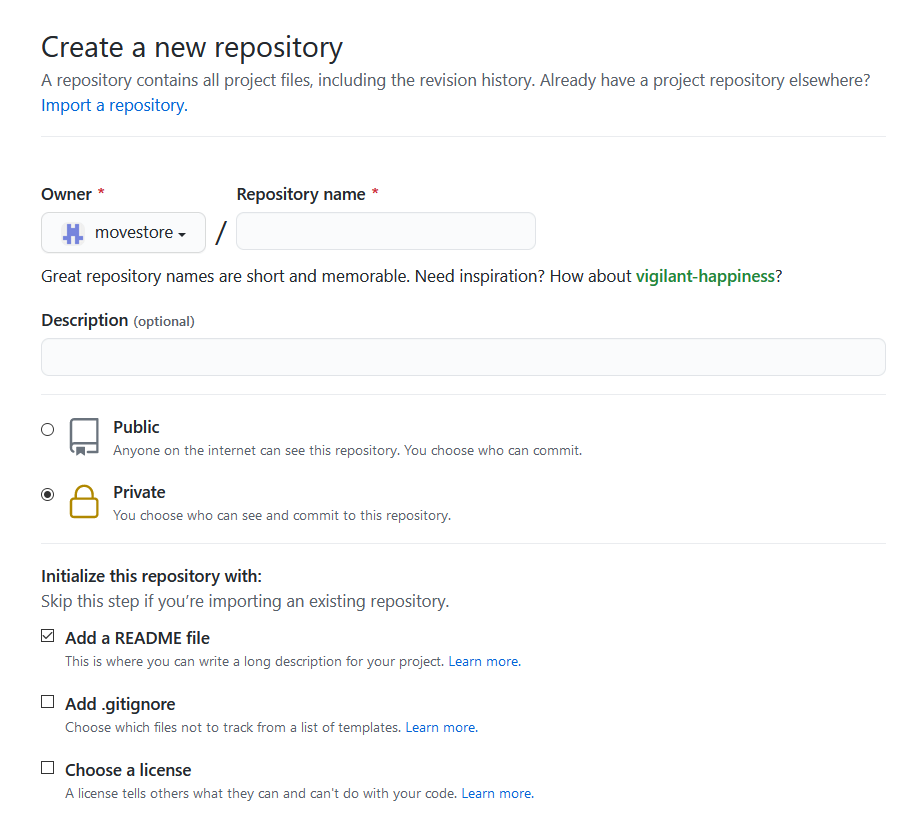
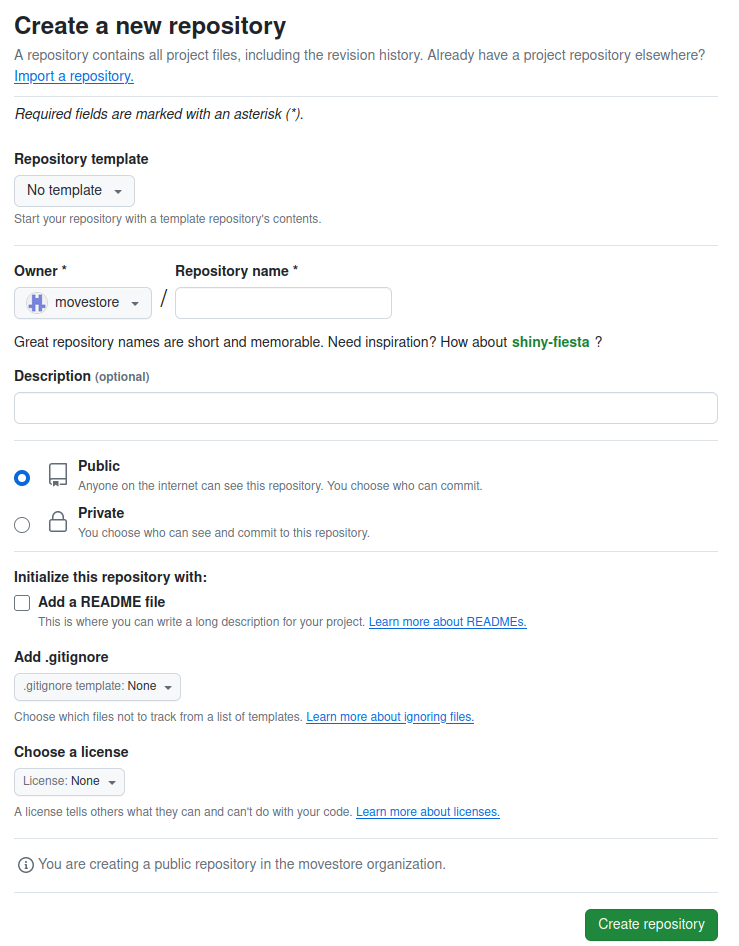
sync template R and py

diff --git a/manage_Rapp_github.md b/manage_Rapp_github.md
@@ -1,0 +1,44 @@
+# Manage your MoveApps Apps with GitHub and RStudio
+
+## Create GitHub repository
+Preferably use directly one of our templates ([see details](create_app.md)). Click on `Use this template` to copy the template to a new repository within your GitHub account. Specify its name (this can be the name of the App) and provide a short description. In order for our system to access files from your repository it has to be `public`, also for traceability and collaboration in the platform this openness is beneficial. Make sure that you activate to be notified of all activity in the repository (see Watch/Unwatch after creating the repository), so that any issues that users might report about the App will reach you.
+
+<kbd>![](files/create_repository_r_template.png ':size=600')</kbd>
+
+Alternatively, if you have downloaded the files from one of our templates locally, you'll have to create a new repository on your personal GitHub dashboard. Specify its name (this can be the name of the App) and provide a short description. In order for our system to access files from your repository it has to be `public`, also for traceability and collaboration in the platform this openness is beneficial. You can choose a license here, but this will be required of you also later in the process of submitting the App to MoveApps. Make sure that you activate to be notified of all activity in the repository (see Watch/Unwatch after creating the repository), so that any issues that users might report about the App will reach you.
+
+<kbd>![](files/Github_newRepo.png ':size=600')</kbd>
+
+## Clone your GitHub repository
+To comfortably work on your local system, develop your code and test your App locally emulating (almost) the online MoveApps system, you can clone your GitHub repository. This can be done directly in RStudio or by using GitHub Desktop.
+
+### with RStudio
+Open RStudio and Create a new Project from Git Version Control: `File > New Project > Version Control > Git`. Then enter the URL of your GitHub repository (`Code > Local > HTTPS` in GitHub) and select your local project directory name. That's it, you can now use RStudio to develop and test your code locally and push and pull updates to your project via the top right window `Git` which indicates files that have changed and can be pushed and pulled from/to your GitHub respository. Note that before such updates, it is required to commit your changes with a small description of the changes.
+
+<kbd>![](files/Rstudio_Clone.png)</kbd>
+<kbd>![](files/Rstudio_GitOverview.png)</kbd>
+
+### with GitHub Desktop
+Another way to work on your local system is by using the GitHub Desktop, which is a software programme often used for Version Control with Git and GitHub. It requires the installation of that programme. Once you have opened GitHub Desktop you can clone a GitHub repository under `File > Clone repository`, where you can select your repositories (once your account is connected) and clone them to local folders. New files will then be highlighted to be pushed and pulled whenever you open GitHub Desktop. Also here commits and descriptions thereof are required, very comfortably in a small window below the list of changed files.
+
+<kbd>![](files/GitDesktop_Clone.png)</kbd>
+<kbd>![](files/GitDesktop_Overview.png)</kbd>
+
+## Keep your repositories up to date (Sync with templates)
+To ensure that you can test your App emulating the current MoveApps environment, we have put in place a "*Template Synchronization GH action*". Once a week GitHub checks if there are updates for your App (see in [this image](create_app.md) which files are checked/ will be ignored), and makes a pull request (PR). This feature was introduced in June 2023. If you created your App before this date, you can manually add this functionality:
+!\> Only use this option if your App is written for input data of class `move2`!! 
+
+1. Ensure that the Actions permissions are correctly set. In your GitHub repository go to `Settings > Actions > General` and make sure that in the section `Workflow permissions` the options "*Read and write permissions*" is selected and "*Allow GitHub Actions to create and approve pull requests*" is ticked. `Save` your changes.
+
+<kbd>![](files/github_action_permission.png)</kbd>
+
+2. Manually add the folder `.github` from the corresponding template to your fork. ([Template R Function App](https://github.com/movestore/Template_R_Function_App ':ignore'), [Template R Shiny App](https://github.com/movestore/Template_R_Shiny_App ':ignore') or [Template R Shinydashboard App](https://github.com/movestore/Template_R_Shinydashboard_App ':ignore'))
+
+3. Once these files are added you can manually execute the GH action named *.github/workflows/template-sync.yml*.
+To do this, in your GitHub repository go to `Actions > .github/workflows/template-sync.yml > Run workflow > Run workflow`
+
+<kbd>![](files/sync_R_template.png)</kbd>
+
+4. If you are using the `Template R Function App`, after merging the generated pull request add the file `app-configuration.json` manually to the root directory of your App.
+
+

diff --git a/manage_Pyapp_github.md b/manage_Pyapp_github.md
@@ -1,0 +1,33 @@
+# Manage your MoveApps Apps with GitHub
+
+## Create GitHub repository
+Preferably use directly one of our templates ([see details](create_py_app.md)). Click on `Use this template` to copy the template to a new repository within your GitHub account. Specify its name (this can be the name of the App) and provide a short description. In order for our system to access files from your repository it has to be `public`, also for traceability and collaboration in the platform this openness is beneficial. Make sure that you activate to be notified of all activity in the repository (see Watch/Unwatch after creating the repository), so that any issues that users might report about the App will reach you.
+
+<kbd>![](files/create_repository_py_template.png ':size=600')</kbd>
+
+Alternatively, if you have downloaded the files from one of our templates locally, you'll have to create a new repository on your personal GitHub dashboard. Specify its name (this can be the name of the App) and provide a short description. In order for our system to access files from your repository it has to be `public`, also for traceability and collaboration in the platform this openness is beneficial. You can choose a license here, but this will be required of you also later in the process of submitting the App to MoveApps. Make sure that you activate to be notified of all activity in the repository (see Watch/Unwatch after creating the repository), so that any issues that users might report about the App will reach you.
+
+<kbd>![](files/Github_newRepo.png ':size=600')</kbd>
+
+## Clone your GitHub repository
+To comfortably work on your local system, develop your code and test your App locally emulating (almost) the online MoveApps system, you can clone your GitHub repository. 
+
+*(more details coming soon)*
+
+
+## Keep your repositories up to date (Sync with templates)
+To ensure that you can test your App emulating the current MoveApps environment, we have put in place a "*Template Synchronization GH action*". Once a week GitHub checks if there are updates for your App (see in [this image](create_py_app.md) which files are checked/ will be ignored), and makes a pull request (PR). This feature was introduced in October 2023. If you created your App before this date, you can manually add this functionality:
+
+1. Ensure that the Actions permissions are correctly set. In your GitHub repository go to `Settings > Actions > General` and make sure that in the section `Workflow permissions` the options "*Read and write permissions*" is selected and "*Allow GitHub Actions to create and approve pull requests*" is ticked. `Save` your changes.
+
+<kbd>![](files/github_action_permission.png)</kbd>
+
+2. Manually add the folder `.github` from the [Template Python App](https://github.com/movestore/python-sdk) to your fork.
+
+3. Once these files are added you can manually execute the GH action named *Template Synchronization*.
+To do this, in your GitHub repository go to `Actions > Template Synchronization > Run workflow > Run workflow`
+
+<kbd>![](files/sync_py_template.png)</kbd>
+
+
+

diff --git a/_sidebar.md b/_sidebar.md
@@ -14,11 +14,12 @@
       - [Hello world! An R App example](hello_world_app.md)
       - [How to create an R App](create_app.md)
       - [Programming with I/O type 'move2::move2_**'](programing_move2.md)
-      - [Manage your R Apps with GitHub and Rstudio](manage_app_github.md)
-	  - [Parallel computing in MoveApps](parallelcomp.md)
+      - [Manage your R Apps with GitHub and Rstudio](manage_Rapp_github.md)
+	    - [Parallel computing in MoveApps](parallelcomp.md)
   - Python Tutorials
       - [How to create a Python App](create_py_app.md)
-      - [Programming with I/O type MovingPandas.TrajectoryCollection](movingPandas_colnames)
+      - [Programming with I/O type MovingPandas.TrajectoryCollection](movingPandas_colnames.md)
+      - [Manage your Python Apps with GitHub](manage_Pyapp_github.md)
   - Reference
     - App Code
       - [R](copilot-r-sdk.md)
